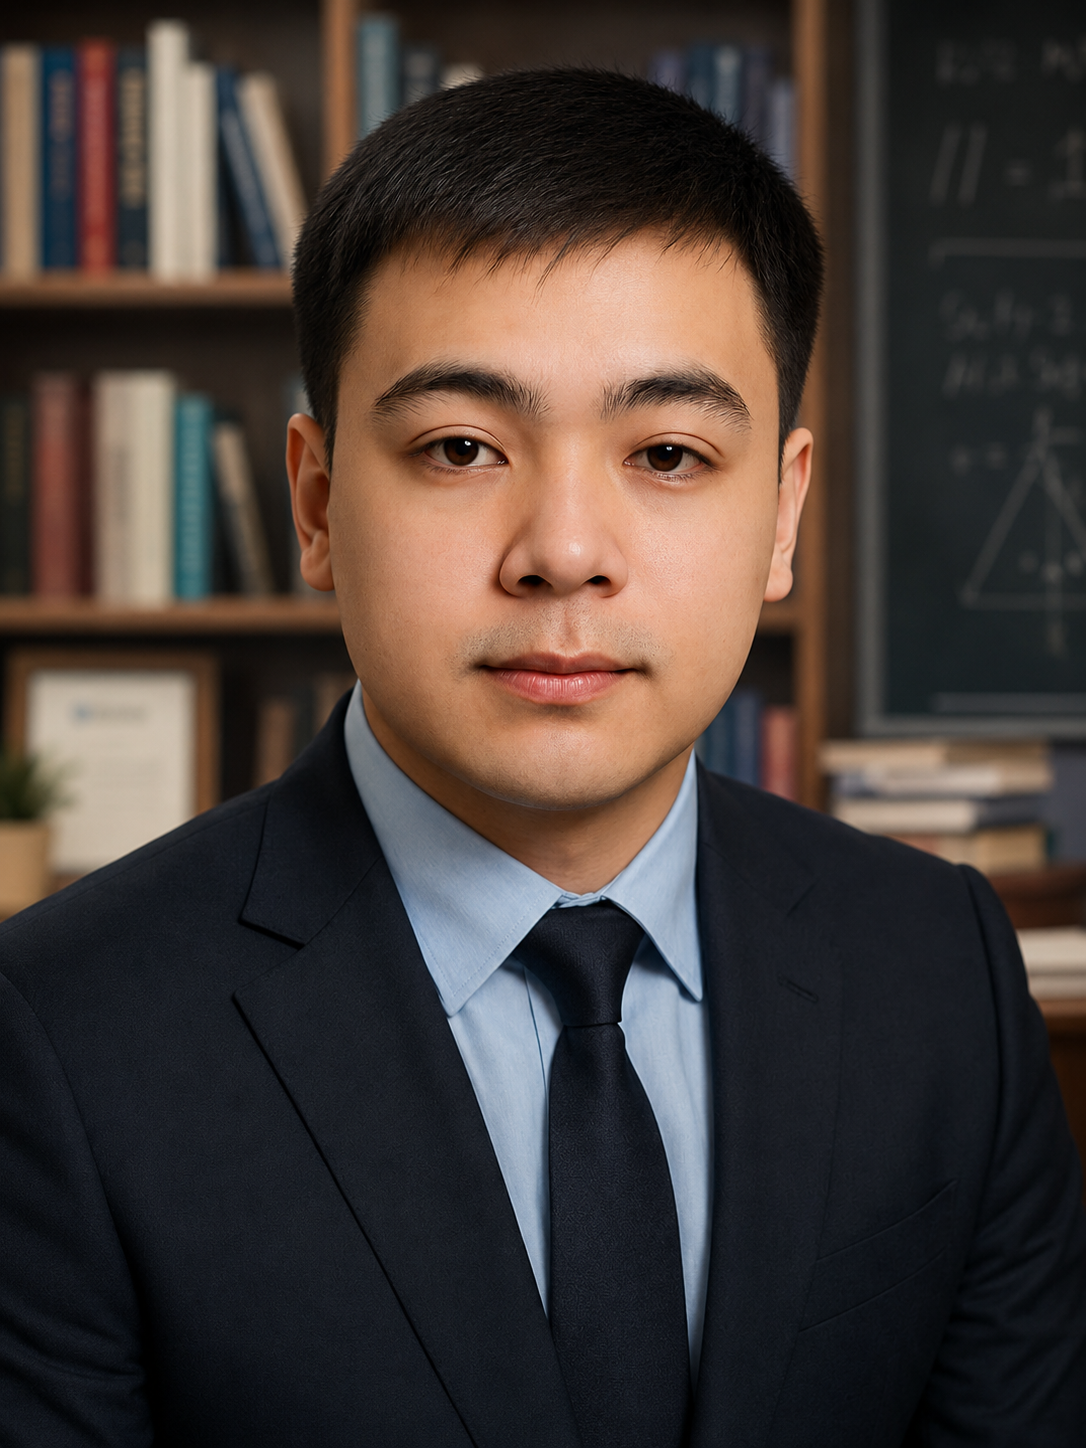
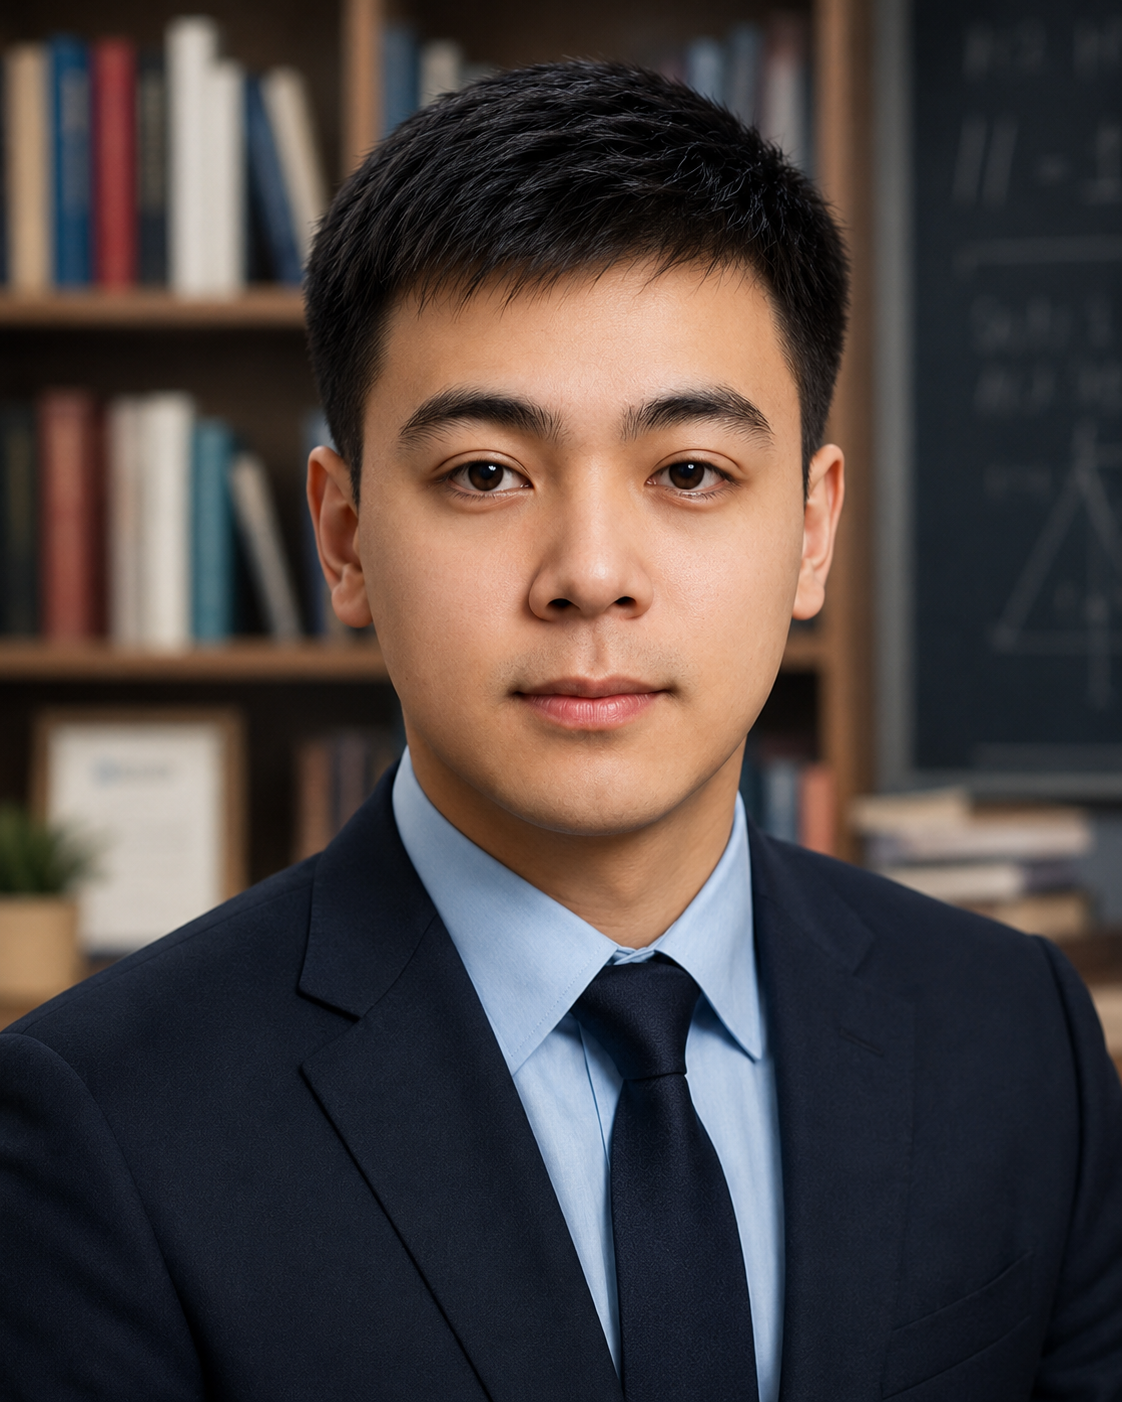
feat: refactor motion handling and remove unused particle effects for improved performance

diff --git a/components/sections/hero.tsx b/components/sections/hero.tsx
@@ -2,7 +2,7 @@
 
 import Image from "next/image";
 import { useEffect, useState } from "react";
-import { AnimatePresence, motion, useReducedMotion } from "motion/react";
+import { AnimatePresence, motion } from "motion/react";
 import profileImage from "@/image/profile.png";
 import { FlickerText } from "@/components/effects/FlickerText";
 import { Container } from "@/components/ui/container";
@@ -11,6 +11,7 @@ import { GlowButton } from "@/components/ui/glow-button";
 import { GradientText } from "@/components/ui/gradient-text";
 import { heroReveal, heroStagger } from "@/lib/motion";
 import { heroIdentityPhrases, profile, stats } from "@/lib/portfolio";
+import { useHydratedReducedMotion } from "@/lib/use-hydrated-reduced-motion";
 
 const HERO_IDENTITY_INTERVAL_MS = 2600;
 
@@ -58,7 +59,7 @@ function RotatingIdentity({ reduceMotion }: { reduceMotion: boolean }) {
 }
 
 export function Hero() {
-  const reduceMotion = Boolean(useReducedMotion());
+  const reduceMotion = useHydratedReducedMotion();
   const gmailComposeUrl = `https://mail.google.com/mail/?view=cm&fs=1&to=${encodeURIComponent(
     profile.email,
   )}&su=${encodeURIComponent("Portfolio collaboration")}`;
@@ -67,6 +68,7 @@ export function Hero() {
     <section className="py-16 sm:py-24 lg:py-28">
       <Container className="grid items-center gap-10 sm:gap-12 lg:grid-cols-[1.1fr_0.9fr] lg:gap-14">
         <motion.div
+          className="min-w-0"
           initial={reduceMotion ? false : "hidden"}
           variants={heroStagger}
           animate="visible"
@@ -78,14 +80,14 @@ export function Hero() {
             <FlickerText>{profile.role}</FlickerText>
           </motion.p>
           <motion.h1
-            className="mt-5 max-w-4xl text-5xl font-semibold leading-[0.94] text-foreground sm:text-7xl lg:text-8xl"
+            className="mt-5 max-w-full text-5xl font-semibold leading-[0.94] text-foreground sm:max-w-4xl sm:text-7xl lg:text-8xl"
             variants={heroReveal}
           >
             <GradientText className="hero-gradient-name">{profile.displayName}</GradientText>
           </motion.h1>
           <motion.div
             aria-label={`Personal lab identity: ${heroIdentityPhrases.join(", ")}`}
-            className="mt-6 max-w-2xl rounded-lg border border-neon-cyan/20 bg-white/[0.045] p-3 shadow-[0_0_28px_hsl(var(--neon-cyan)/0.08),inset_0_1px_0_hsl(var(--foreground)/0.08)] backdrop-blur-sm sm:p-4"
+            className="mt-6 w-full max-w-full rounded-lg border border-neon-cyan/20 bg-white/[0.045] p-3 shadow-[0_0_28px_hsl(var(--neon-cyan)/0.08),inset_0_1px_0_hsl(var(--foreground)/0.08)] backdrop-blur-sm sm:max-w-2xl sm:p-4"
             variants={heroReveal}
           >
             <div className="flex flex-col gap-2 sm:flex-row sm:items-center sm:gap-3">
@@ -94,7 +96,7 @@ export function Hero() {
               </span>
               <span
                 aria-live="off"
-                className="relative block min-h-7 overflow-hidden text-base font-black uppercase tracking-[0.16em] text-foreground sm:text-lg"
+                className="relative block min-h-7 overflow-hidden break-words text-base font-black uppercase tracking-[0.16em] text-foreground sm:text-lg"
               >
                 <RotatingIdentity reduceMotion={reduceMotion} />
               </span>
@@ -111,7 +113,7 @@ export function Hero() {
             </div>
           </motion.div>
           <motion.p
-            className="mt-6 max-w-2xl text-base leading-8 text-muted-foreground sm:text-lg"
+            className="mt-6 w-full max-w-full text-base leading-8 text-muted-foreground sm:max-w-2xl sm:text-lg"
             variants={heroReveal}
           >
             {profile.summary}

diff --git a/components/sections/contact.tsx b/components/sections/contact.tsx
@@ -9,26 +9,33 @@ import { GlowButton } from "@/components/ui/glow-button";
 import { GradientText } from "@/components/ui/gradient-text";
 import { profile } from "@/lib/portfolio";
 
-const gmailComposeUrl =
-  "https://mail.google.com/mail/?view=cm&fs=1&to=tranhienchuong03062004@gmail.com&su=Portfolio%20collaboration";
+const gmailComposeUrl = `https://mail.google.com/mail/?view=cm&fs=1&to=${encodeURIComponent(
+  profile.email,
+)}&su=${encodeURIComponent("Portfolio collaboration")}`;
+
+type CopyStatus = "idle" | "copied" | "failed";
 
 export function Contact() {
-  const [copied, setCopied] = useState(false);
+  const [copyStatus, setCopyStatus] = useState<CopyStatus>("idle");
   const copyTimerRef = useRef<number | null>(null);
   const contactSocials = profile.socials.filter((social) =>
     ["GitHub", "Facebook", "LinkedIn"].includes(social.label),
   );
 
   async function copyEmail() {
-    await navigator.clipboard.writeText(profile.email);
-    setCopied(true);
+    try {
+      await navigator.clipboard.writeText(profile.email);
+      setCopyStatus("copied");
+    } catch {
+      setCopyStatus("failed");
+    }
 
     if (copyTimerRef.current) {
       window.clearTimeout(copyTimerRef.current);
     }
 
     copyTimerRef.current = window.setTimeout(() => {
-      setCopied(false);
+      setCopyStatus("idle");
     }, 1800);
   }
 
@@ -69,11 +76,16 @@ export function Contact() {
                 </GlowButton>
                 <button
                   aria-label="Copy email address"
+                  aria-live="polite"
                   className="inline-flex h-11 items-center justify-center rounded-md border border-white/12 bg-white/[0.055] px-5 text-sm font-semibold text-foreground backdrop-blur-md transition-colors hover:border-neon-cyan/50 hover:bg-white/[0.08] focus:outline-none focus:ring-2 focus:ring-neon-cyan focus:ring-offset-2 focus:ring-offset-background"
                   onClick={() => void copyEmail()}
                   type="button"
                 >
-                  {copied ? "Copied" : "Copy email"}
+                  {copyStatus === "copied"
+                    ? "Copied"
+                    : copyStatus === "failed"
+                      ? "Copy failed"
+                      : "Copy email"}
                 </button>
               </div>
 

diff --git a/components/motion/fade-up.tsx b/components/motion/fade-up.tsx
@@ -1,8 +1,9 @@
 "use client";
 
 import type { ReactNode } from "react";
-import { motion, useReducedMotion } from "motion/react";
+import { motion } from "motion/react";
 import { fadeUp } from "@/lib/motion";
+import { useHydratedReducedMotion } from "@/lib/use-hydrated-reduced-motion";
 
 type FadeUpProps = {
   children: ReactNode;
@@ -15,19 +16,15 @@ export function FadeUp({
   className,
   once = true,
 }: FadeUpProps) {
-  const reduceMotion = useReducedMotion();
-
-  if (reduceMotion) {
-    return <div className={className}>{children}</div>;
-  }
+  const reduceMotion = useHydratedReducedMotion();
 
   return (
     <motion.div
       className={className}
-      initial="hidden"
-      variants={fadeUp}
-      viewport={{ once, amount: 0.2 }}
-      whileInView="visible"
+      initial={reduceMotion ? false : "hidden"}
+      variants={reduceMotion ? undefined : fadeUp}
+      viewport={reduceMotion ? undefined : { once, amount: 0.2 }}
+      whileInView={reduceMotion ? undefined : "visible"}
     >
       {children}
     </motion.div>

diff --git a/app/globals.css b/app/globals.css
@@ -71,12 +71,6 @@ a {
   outline-offset: 3px;
 }
 
-.cyber-particle {
-  animation-name: cyber-particle-drift;
-  animation-timing-function: linear;
-  animation-iteration-count: infinite;
-}
-
 .cyber-flicker {
   position: relative;
   display: inline-block;
@@ -288,26 +282,6 @@ section[id] {
   }
 }
 
-@keyframes cyber-particle-drift {
-  0% {
-    opacity: 0;
-    transform: translate3d(0, 28px, 0);
-  }
-
-  16% {
-    opacity: 0.42;
-  }
-
-  72% {
-    opacity: 0.22;
-  }
-
-  100% {
-    opacity: 0;
-    transform: translate3d(var(--particle-x), -52px, 0);
-  }
-}
-
 @keyframes cyber-label-glitch {
   0%,
   91%,
@@ -377,7 +351,6 @@ section[id] {
     transition-duration: 0.01ms !important;
   }
 
-  .cyber-particle,
   .cyber-flicker::after {
     animation: none !important;
   }

diff --git a/components/ui/glass-card.tsx b/components/ui/glass-card.tsx
@@ -1,7 +1,8 @@
 "use client";
 
 import type { ComponentPropsWithoutRef, ReactNode } from "react";
-import { motion, type HTMLMotionProps, useReducedMotion } from "motion/react";
+import { motion, type HTMLMotionProps } from "motion/react";
+import { useHydratedReducedMotion } from "@/lib/use-hydrated-reduced-motion";
 import { cn } from "@/lib/utils";
 
 type GlassCardProps = Omit<
@@ -21,7 +22,7 @@ export function GlassCard({
   performance = false,
   ...props
 }: GlassCardProps) {
-  const reduceMotion = useReducedMotion();
+  const reduceMotion = useHydratedReducedMotion();
   const hoverProps =
     interactive && !performance && !reduceMotion
       ? {

diff --git a/components/ui/glow-button.tsx b/components/ui/glow-button.tsx
@@ -2,7 +2,8 @@
 
 import Link from "next/link";
 import type { ComponentPropsWithoutRef, ReactNode } from "react";
-import { motion, type HTMLMotionProps, useReducedMotion } from "motion/react";
+import { motion, type HTMLMotionProps } from "motion/react";
+import { useHydratedReducedMotion } from "@/lib/use-hydrated-reduced-motion";
 import { cn } from "@/lib/utils";
 
 const MotionLink = motion.create(Link);
@@ -24,7 +25,7 @@ export function GlowButton({
   children,
   ...props
 }: GlowButtonProps) {
-  const reduceMotion = useReducedMotion();
+  const reduceMotion = useHydratedReducedMotion();
 
   return (
     <MotionLink

diff --git a/components/site-header.tsx b/components/site-header.tsx
@@ -24,7 +24,7 @@ export function SiteHeader() {
         </Link>
         <nav
           aria-label="Main navigation"
-          className="flex max-w-full items-center gap-4 overflow-x-auto text-nowrap pb-1 md:gap-7 md:overflow-visible md:pb-0"
+          className="flex min-w-0 basis-full flex-wrap items-center gap-x-3 gap-y-1 pb-1 md:basis-auto md:gap-x-7 md:pb-0"
         >
           {navItems.map((item) => (
             <Link

diff --git a/lib/use-hydrated-reduced-motion.ts b/lib/use-hydrated-reduced-motion.ts
@@ -1,0 +1,17 @@
+"use client";
+
+import { useReducedMotion } from "motion/react";
+import { useSyncExternalStore } from "react";
+
+const emptySubscribe = () => () => {};
+
+export function useHydratedReducedMotion() {
+  const prefersReducedMotion = useReducedMotion();
+  const hasMounted = useSyncExternalStore(
+    emptySubscribe,
+    () => true,
+    () => false,
+  );
+
+  return hasMounted && Boolean(prefersReducedMotion);
+}

diff --git a/lib/motion.ts b/lib/motion.ts
@@ -10,11 +10,10 @@ export const fadeUp: Variants = {
 };
 
 export const heroReveal: Variants = {
-  hidden: { opacity: 0, y: 16, filter: "blur(6px)" },
+  hidden: { opacity: 0, y: 16 },
   visible: {
     opacity: 1,
     y: 0,
-    filter: "blur(0px)",
     transition: { duration: 0.62, ease: [0.22, 1, 0.36, 1] },
   },
 };

diff --git a/README.md b/README.md
@@ -1,6 +1,6 @@
 # Trần Hiến Chương — Creative Frontend Portfolio
 
-A colorful, visual-first portfolio built with Next.js, TypeScript, Tailwind CSS, Motion, GSAP, and Lenis. It showcases real projects, legal-tech research, mobile prototypes, UI experiments, and interactive frontend presentation.
+A colorful, visual-first portfolio built with Next.js, TypeScript, Tailwind CSS, Motion, and Lenis. It showcases real projects, legal-tech research, mobile prototypes, UI experiments, and interactive frontend presentation.
 
 ## Features
 
@@ -37,7 +37,6 @@ A colorful, visual-first portfolio built with Next.js, TypeScript, Tailwind CSS,
 - TypeScript
 - Tailwind CSS
 - Motion
-- GSAP
 - Lenis
 
 ## Project Structure
@@ -47,10 +46,10 @@ app/                  App Router pages, layout, and project detail routes
 components/           Shared React components
 components/sections/  Homepage and content sections
 components/ui/        Reusable UI primitives
-components/effects/   Visual background/effect components
+components/effects/   Static background and optional cursor effects
 components/providers/ App-level providers
 lib/                  Portfolio data, helpers, and shared utilities
-public/               Static assets can be added here later
+public/               Static icons, manifest, and public assets
 ```
 
 ## Getting Started
@@ -91,10 +90,6 @@ Run lint checks:
 npm run lint
 ```
 
-## Screenshots
-
-Screenshots can be added later when final preview images are available.
-
 ## Content Honesty
 
 - Project descriptions avoid fake clients, users, revenue, awards, and production metrics.
@@ -103,17 +98,17 @@ Screenshots can be added later when final preview images are available.
 
 ## Performance Note
 
-The portfolio uses visual effects and glassmorphism. If performance issues appear, the first area to optimize is large project-card hover effects and heavy blur/shadow layers.
+The portfolio keeps the dark neon identity with a static CSS background, Motion-based reveal animations, and guarded desktop-only enhancements. The background does not use a canvas or a continuous animation loop.
 
 ## Deployment
 
 This project can be deployed on Vercel or any Next.js-compatible hosting provider.
 
-No production deployment URL has been added yet.
+Set `GROQ_API_KEY` in the deployment environment to enable the AI assistant. Without it, the portfolio still works and the assistant returns a clear configuration message.
 
 ## License
 
-No license has been selected yet.
+No license is specified.
 
 ## Author
 
